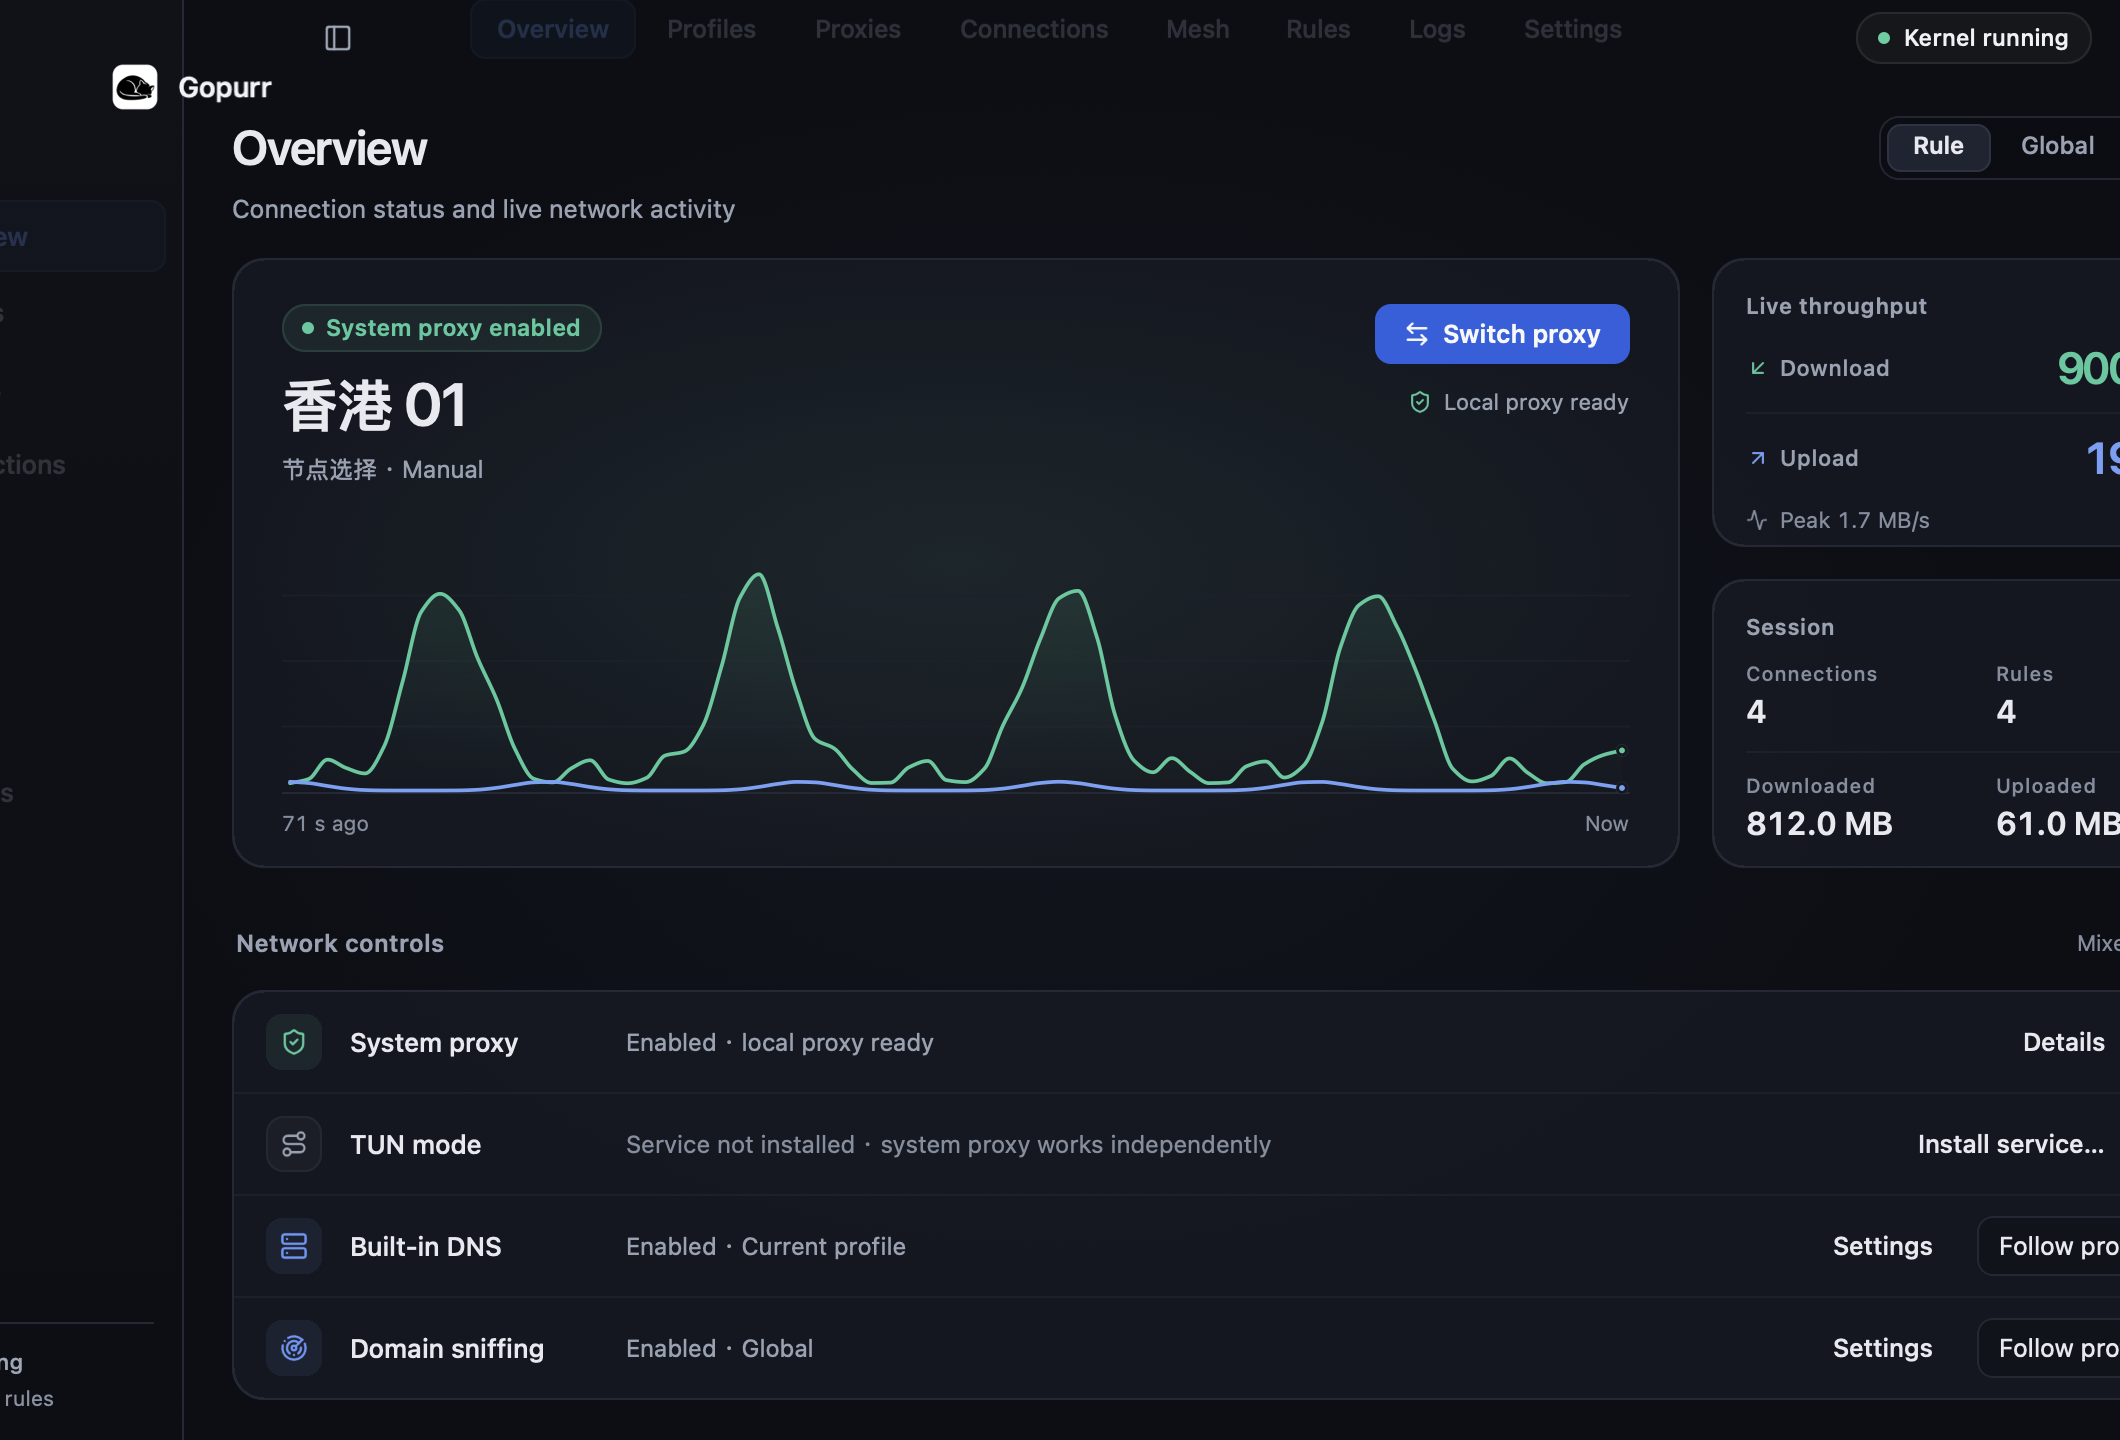
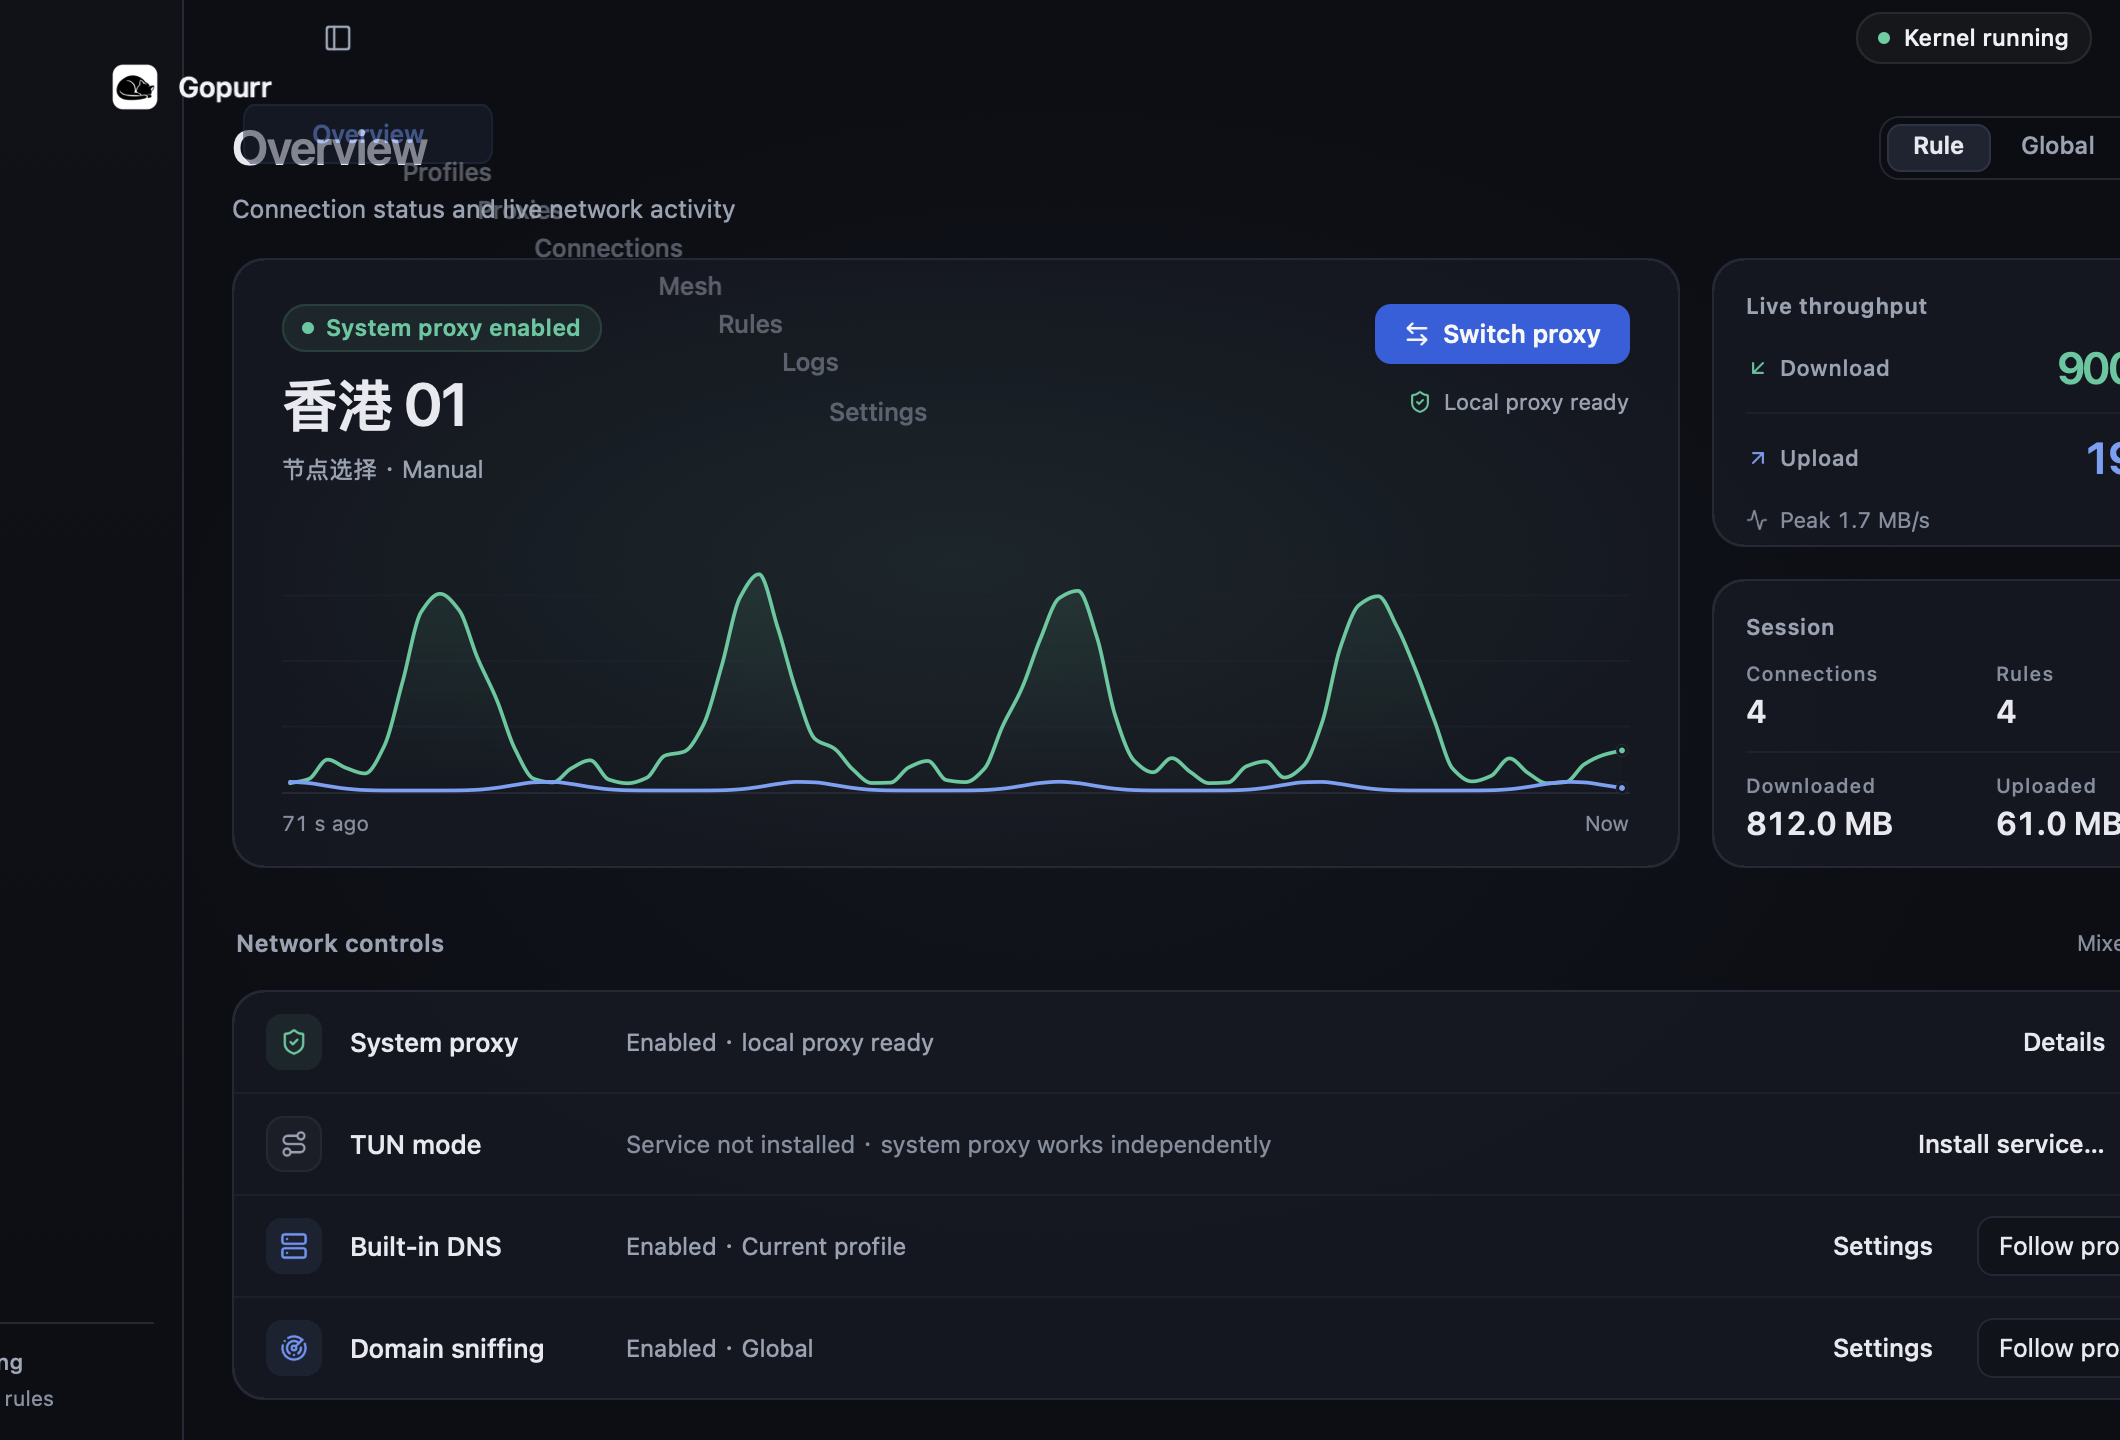
fix: restore left-to-top navigation flight animation and release v0.6.64

diff --git a/native/ui/src/desktop/nav-flight.tsx b/native/ui/src/desktop/nav-flight.tsx
@@ -58,9 +58,7 @@ export function NavigationFlight(p: {
   const slide = progress.interpolate({ inputRange: [0, 1], outputRange: [0, -184] });
   const curtainOpacity = progress.interpolate({ inputRange: [0, 0.82, 1], outputRange: [1, 1, 0] });
   const curtainShadow = () => dark() ? [{ x: 10, y: 0, blur: 24, color: "#00000048" }] : [{ x: 10, y: 0, blur: 24, color: "#0f172a16" }];
-  const sidebarRowsFade = progress.interpolate({ inputRange: [0, 0.65], outputRange: [1, 0] });
-  const topTabOpacity = progress.interpolate({ inputRange: [0.35, 1], outputRange: [0, 1] });
-  const topTabY = progress.interpolate({ inputRange: [0.35, 1], outputRange: [-6, 0] });
+  const sidebarRowsFade = progress.interpolate({ inputRange: [0, 0.5], outputRange: [1, 0] });
   const brand = () => brandInterpolation(p.titlebarInset, p.titlebarHeight);
   const brandX = () => progress.interpolate({ inputRange: [0, 1], outputRange: brand().x });
   const brandY = () => progress.interpolate({ inputRange: [0, 1], outputRange: brand().y });
@@ -90,9 +88,19 @@ export function NavigationFlight(p: {
     <View style={{ position: "absolute", left: 0, top: 0, width: "100%", height: "100%" }}>
       {items.map((item, index) => {
         const selected = () => p.page === item.id;
-        return <View style={{ position: "absolute", left: compactLeft(index), top: compactTop(), width: compactWidth(index), height: 30, alignItems: "center", justifyContent: "center", borderRadius: 8, opacity: topTabOpacity, transform: [{ translateY: topTabY }] }}>
-          <If when={selected()}><View style={{ position: "absolute", left: 0, top: 0, right: 0, bottom: 0, borderRadius: 8, backgroundColor: colors().selected, borderWidth: 1, borderColor: selectedBorder() }} /></If>
-          <Text style={{ fontSize: 12.5, fontWeight: selected() ? "600" : "500", letterSpacing: -0.1, color: selected() ? colors().accent : colors().muted, numberOfLines: 1 }}>{tr(item.zh, item.en)}</Text>
+        const startX = 8, layoutW = 167;
+        const endX = () => compactLeft(index);
+        const startY = () => top(index);
+        const endY = () => compactTop();
+        const endW = () => compactWidth(index);
+        const pillScale = () => progress.interpolate({ inputRange: [0, 1], outputRange: [1, endW() / layoutW] });
+        const pillX = () => progress.interpolate({ inputRange: [0, 1], outputRange: [startX - endX(), 0] });
+        const pillY = () => progress.interpolate({ inputRange: [0, 1], outputRange: [startY() - endY(), 0] });
+        // The pill scales about its left edge. Dividing cancels that on the
+        // glyphs for the whole flight; a second linear interpolate would not.
+        const textScale = () => progress.interpolate({ inputRange: [0, 1], outputRange: [1, 1] }).div(pillScale());
+        return <View style={{ position: "absolute", left: endX(), top: endY(), width: layoutW, height: 30, alignItems: "center", justifyContent: "center", borderRadius: 8, backgroundColor: selected() ? colors().selected : "transparent", borderWidth: selected() ? 1 : 0, borderColor: selected() ? selectedBorder() : "transparent", opacity: progress, transformOrigin: "left center", transform: [{ translateX: pillX() }, { translateY: pillY() }, { scaleX: pillScale() }] }}>
+          <Text style={{ fontSize: 12.5, fontWeight: selected() ? "600" : "500", letterSpacing: -0.1, color: selected() ? colors().accent : colors().muted, numberOfLines: 1, transformOrigin: "center", transform: [{ scaleX: textScale() }] }}>{tr(item.zh, item.en)}</Text>
         </View>;
       })}
     </View>

diff --git a/docs/release-notes.md b/docs/release-notes.md
@@ -1,15 +1,15 @@
-Gopurr 0.6.63 优化了桌面侧栏切换时的右侧滑移动画，并全面升级了深浅两套界面的配色、控件质感与视觉层级。
+Gopurr 0.6.64 在保留右侧内容区平滑滑移与新版视觉质感的同时，恢复了导航项从左侧栏飞向顶栏的过渡动画。
 
-- 侧栏收展采用 240ms 减速曲线（`[0.22, 1, 0.36, 1]`），收起时右侧内容区随不透明侧栏幕布右缘做 `184 → 0` 纯 GPU 同步滑移，顶栏导航原地微滑淡入，消除半透明叠影、左侧裁切与斜飞遮挡；展开时平滑渐显，右上内核状态胶囊固定不抖动。
-- 升级深浅双色调色板与卡片表面深度：深色主按钮与开关采用高饱和钴蓝配纯白前景，重构分段选择、微标签、侧栏选中态与无边框底部摘要，去除概览、订阅、代理与组网页面的生硬左缘竖条和折边伪影。
-- 统一自适应出口标题字号、对齐概览 2×2 会话统计与网络控制状态感知图标块，升级代理延迟标签；840×560 与 1060×720 明暗中英文全套界面均已重新渲染并核对。
+- 侧栏收展时，8 个导航项重新从左侧纵列飞向顶部横排，并通过响应式宽度计算与反向文字缩放确保中英文标签全程清晰不截断。
+- 保留 240ms 减速曲线（`[0.22, 1, 0.36, 1]`）、不透明侧栏幕布（带柔和右缘投影）以及右侧内容区 `184 → 0` 纯 GPU 同步滑移，消除半透明叠影穿透与左侧裁切；右上内核状态胶囊固定不抖动。
+- 已重新渲染并核对 840×560 与 1060×720 下中英文明暗主题过渡帧截图。
 
 下载：
 
-- macOS 12 及以上 Apple Silicon：`gopurr-0.6.63-arm64.dmg`。
-- Windows 10 1809 及以上／Windows 11 x64：`gopurr-setup-0.6.63-amd64.exe`。
-- Android 9 及以上 ARM64：`gopurr-0.6.63-android-arm64-v8a.apk`。
-- Android x86_64：`gopurr-0.6.63-android-x86_64.apk`。
+- macOS 12 及以上 Apple Silicon：`gopurr-0.6.64-arm64.dmg`。
+- Windows 10 1809 及以上／Windows 11 x64：`gopurr-setup-0.6.64-amd64.exe`。
+- Android 9 及以上 ARM64：`gopurr-0.6.64-android-arm64-v8a.apk`。
+- Android x86_64：`gopurr-0.6.64-android-x86_64.apk`。
 
 也可在应用内检查更新。
 

diff --git a/CHANGELOG.md b/CHANGELOG.md
@@ -1,5 +1,10 @@
 # 更新记录
 
+## 0.6.64
+
+- 恢复侧栏收展时 8 个导航项从左侧纵列自然飞向顶栏横排的动画轨迹，并通过响应式尺寸与反向文字缩放保持中英文标签在飞行途中清晰不截断、不变形。
+- 保留不透明侧栏幕布及右侧内容区 `184 → 0` 纯 GPU 同步滑移，使内容紧贴侧栏右缘平滑移动且无左侧裁切或叠影穿透，并刷新 840×560 与 1060×720 明暗中英文过渡帧截图。
+
 ## 0.6.63
 
 - 侧栏收展动画优化：收起时右侧内容区以 240ms 减速曲线（`[0.22, 1, 0.36, 1]`）随不透明侧栏幕布右缘做 `184 → 0` 纯 GPU 同步滑移，顶栏导航原地微滑淡入，消除右侧瞬移、文字裁切与叠影穿透，展开时平滑渐显，右上内核状态胶囊固定不抖动。
